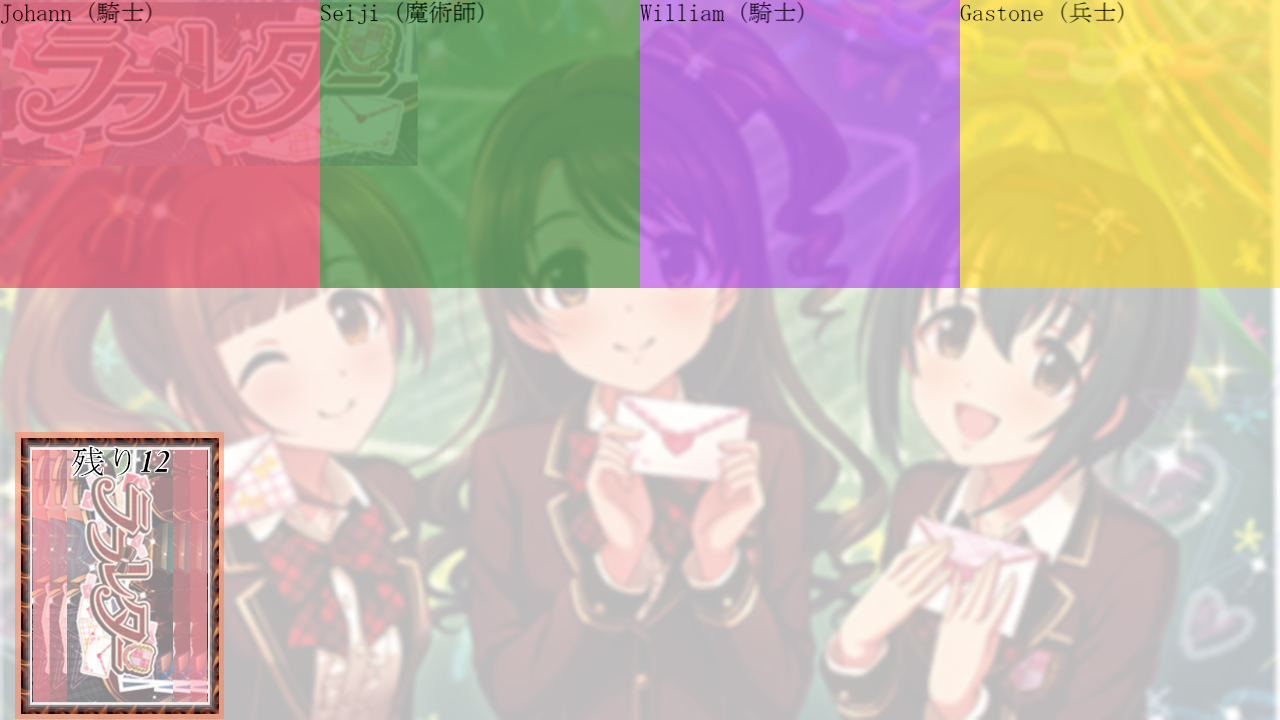
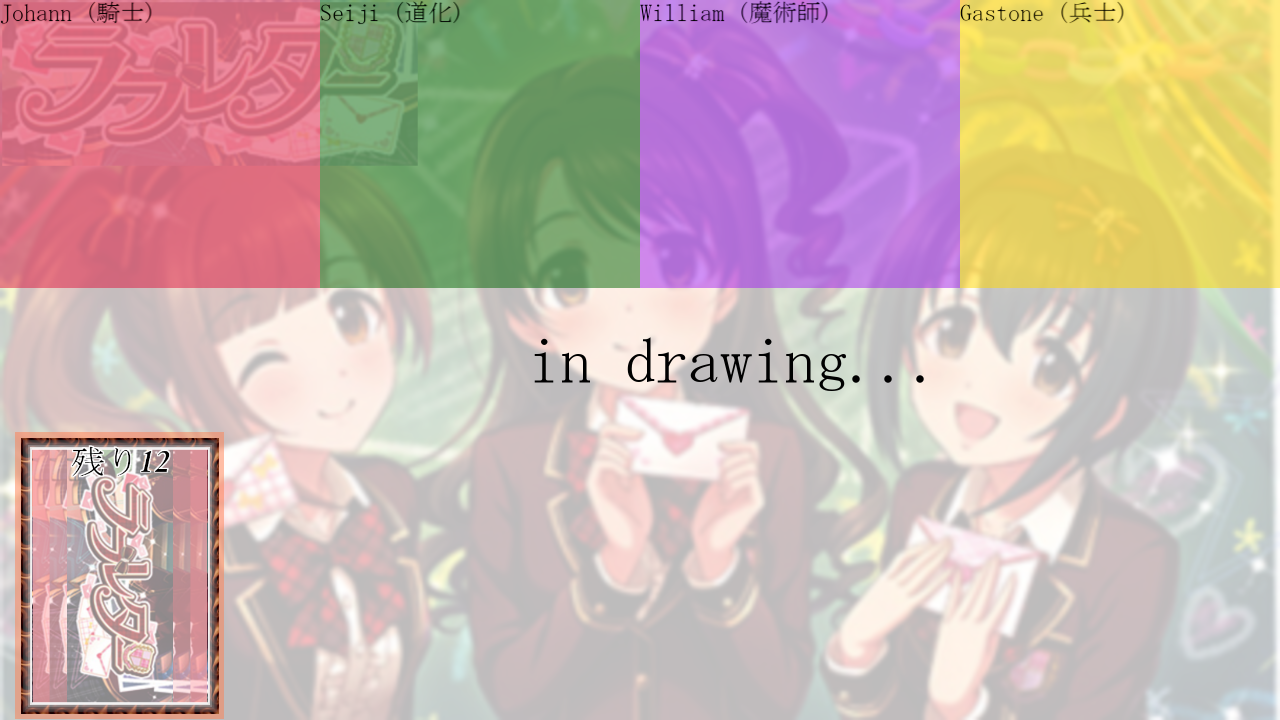
L030:デフォルト値のDrawBoardへの置換

Changed region(s): [[0.4062, 0.4889, 0.6875, 0.55], [0.5625, 0.0, 0.6562, 0.0306], [0.3125, 0.0, 0.375, 0.0306]]

diff --git a/ll/view/draw_view.py b/ll/view/draw_view.py
@@ -2,6 +2,7 @@ from pygame import Rect
 
 from any.screen import screen, IMG_BG, WX, WY
 from any.propagation import propagation
+from any.font import MS_MINCHO_COL
 from model.board import Board
 from model.player import Player
 from view.player_square import PlayerSquare
@@ -11,7 +12,7 @@ from ptc.square import Square
 from ptc.listener import Listener
 
 from ptc.view import View
-class BoardView():
+class DrawView():
     def __init__(self, board: Board, subject: Player, listener: Listener) -> None:
         self.board = board
         self.subject = subject
@@ -22,16 +23,21 @@ class BoardView():
         ...
 
     def get_hover(self) -> Element | None:
-        for square in self.squares:
-            if element := square.get_hover():
-                return element
+        # for square in self.squares:
+        #     if element := square.get_hover():
+        #         return element
         return None
 
     def draw(self) -> None:
         screen.blit(source=IMG_BG, dest=[0, 0])
         for square in self.squares:
             square.draw()
+        screen.blit(
+            source=MS_MINCHO_COL("in drawing...", 64, "black"),
+            dest=(WX/2-112, WY/2-32)
+        )
         propagation.mouse_over()
+
         # if hover := self.get_hover():
         #     screen.fill(color=(255, 0, 0), rect=((hover.dest)-(10, 10), (20, 20)))
 

diff --git a/ll/seed/default_gm.py b/ll/seed/default_gm.py
@@ -2,6 +2,7 @@ from any.game_master import GameMaster
 from model.board import Board
 from model.player import Player, OBSERVER
 from view.board_view import BoardView
+from view.draw_view import DrawView
 
 def _make_board() -> Board:
     players: list[Player] = [
@@ -13,5 +14,6 @@ def _make_board() -> Board:
 
 board = _make_board()
 gm = GameMaster(board=board)
-view = BoardView(board=board, subject=OBSERVER, listener=gm)
+# view = BoardView(board=board, subject=OBSERVER, listener=gm)
+view = DrawView(board=board, subject=OBSERVER, listener=gm)
 gm.view = view

diff --git a/ll/model/board.py b/ll/model/board.py
@@ -4,14 +4,6 @@ from model.kard import Kard, EMPTY_KARD
 from model.deck import make_deck
 from model.player import Player, OBSERVER
 
-# class Board():
-#     def __init__(self, players: list[Player]) -> None:
-#         self.players = players
-#         self.deck = make_deck()
-#         self.players = [player._replace(hand=self.deck.pop(0), alive=True) for player in self.players]
-#         self.turn_player = OBSERVER
-#         self.draw_kard = EMPTY_KARD
-
 class Board(NamedTuple):
     players: list[Player]
     deck: list[Kard]
